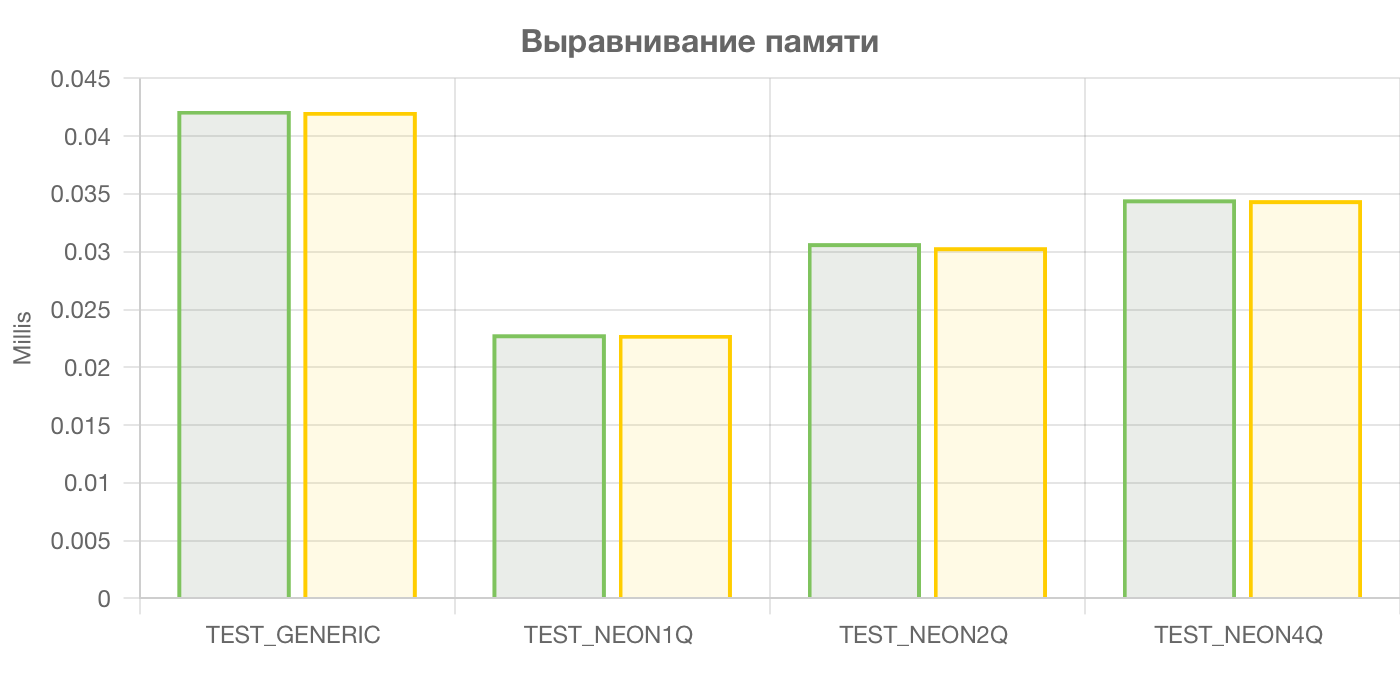
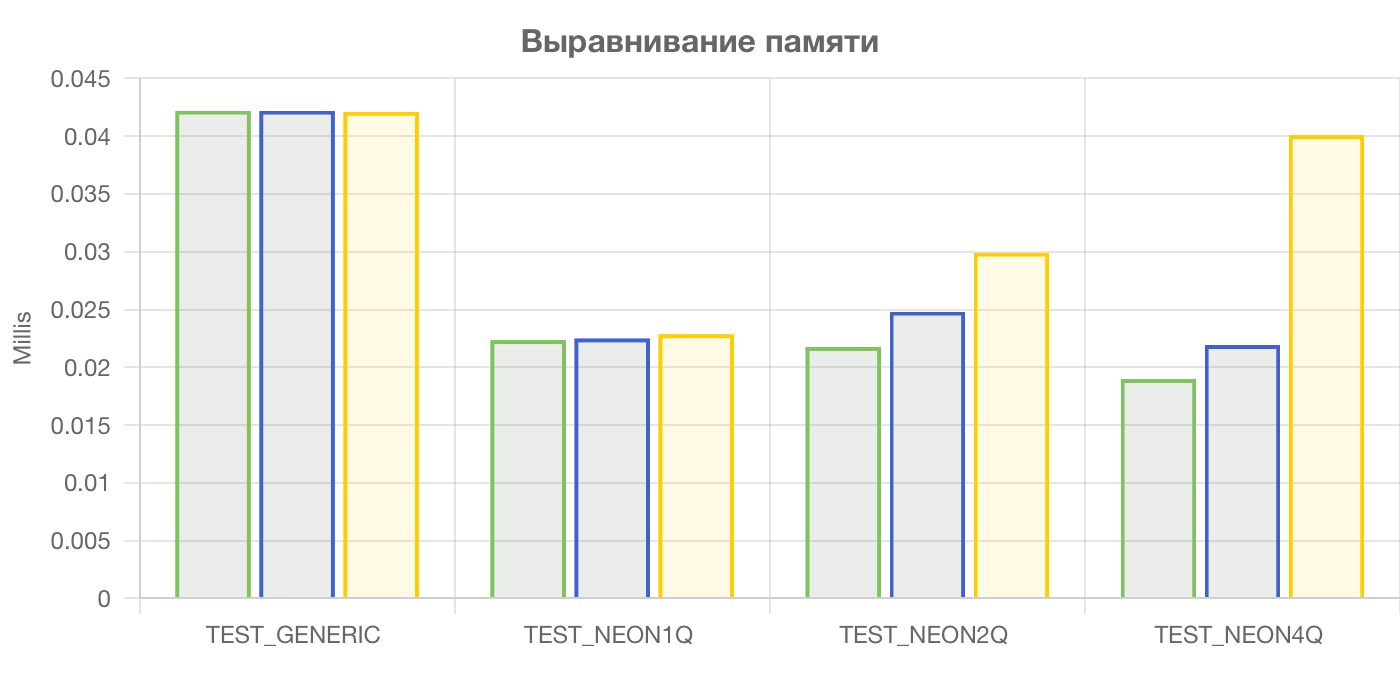
update blog post with new info

diff --git a/posts/fir-filter-optimization-simd/index.html b/posts/fir-filter-optimization-simd/index.html
@@ -553,7 +553,11 @@ const typesCompareChart = new Chart(typesCompareCtx, {
 <span style="color:#75715e">#else
 </span><span style="color:#75715e"></span>  output <span style="color:#f92672">=</span> malloc(<span style="color:#66d9ef">sizeof</span>(<span style="color:#66d9ef">float</span>) <span style="color:#f92672">*</span> output_len);
 <span style="color:#75715e">#endif
-</span></code></pre></div>
+</span></code></pre></div><p>Помимо, собственно, создания выравненного массива данных, при обработке нужно указать процессору, что данные выровнены. Делается это с помощью функции <code>__builtin_assume_aligned</code>:</p>
+<div class="highlight"><pre style="color:#f8f8f2;background-color:#272822;-moz-tab-size:4;-o-tab-size:4;tab-size:4"><code class="language-c" data-lang="c"><span style="color:#66d9ef">const</span> <span style="color:#66d9ef">float</span> <span style="color:#f92672">*</span>aPtr <span style="color:#f92672">=</span> (<span style="color:#66d9ef">float</span> <span style="color:#f92672">*</span>) __builtin_assume_aligned(input, MEMORY_ALIGNMENT);
+<span style="color:#66d9ef">const</span> <span style="color:#66d9ef">float</span> <span style="color:#f92672">*</span>bPtr <span style="color:#f92672">=</span> (<span style="color:#66d9ef">float</span> <span style="color:#f92672">*</span>) __builtin_assume_aligned(taps, MEMORY_ALIGNMENT);
+</code></pre></div><p>Если что-то не будет выровнено, то не беда - процессор это сообщит и программа упадёт с ошибкой <code>Bus error</code>.</p>
+
 
 
 
@@ -584,11 +588,13 @@ const typesCompareChart = new Chart(typesCompareCtx, {
 </small>
 </div>
 <script>
-var typesMemoryData = [{"rpi_dot_prod_am_nas_npref_optimized_64":0.042213,"rpi_dot_prod_nam_nas_npref_optimized_64":0.042113,"type":"TEST_GENERIC"},{"rpi_dot_prod_am_nas_npref_optimized_64":0.022856,"rpi_dot_prod_nam_nas_npref_optimized_64":0.02282,"type":"TEST_NEON1Q"},{"rpi_dot_prod_am_nas_npref_optimized_64":0.030744,"rpi_dot_prod_nam_nas_npref_optimized_64":0.030391,"type":"TEST_NEON2Q"},{"rpi_dot_prod_am_nas_npref_optimized_64":0.034534,"rpi_dot_prod_nam_nas_npref_optimized_64":0.034464,"type":"TEST_NEON4Q"}];
+var typesMemoryData = [{"rpi_dot_prod_am16_nas_npref_optimized_64":0.042213,"rpi_dot_prod_am8_nas_npref_optimized_64":0.042213,"rpi_dot_prod_nam_nas_npref_optimized_64":0.042113,"type":"TEST_GENERIC"},{"rpi_dot_prod_am16_nas_npref_optimized_64":0.022499,"rpi_dot_prod_am8_nas_npref_optimized_64":0.022355,"rpi_dot_prod_nam_nas_npref_optimized_64":0.022867,"type":"TEST_NEON1Q"},{"rpi_dot_prod_am16_nas_npref_optimized_64":0.024824,"rpi_dot_prod_am8_nas_npref_optimized_64":0.021756,"rpi_dot_prod_nam_nas_npref_optimized_64":0.029926,"type":"TEST_NEON2Q"},{"rpi_dot_prod_am16_nas_npref_optimized_64":0.021928,"rpi_dot_prod_am8_nas_npref_optimized_64":0.018982,"rpi_dot_prod_nam_nas_npref_optimized_64":0.040092,"type":"TEST_NEON4Q"}];
 var typesMemorydatasource = typesMemoryData.map(function(e) {
 	return e.rpi_dot_prod_nam_nas_npref_optimized_64;
 });var typesMemorydatasource2 = typesMemoryData.map(function(e) {
-	return e.rpi_dot_prod_am_nas_npref_optimized_64;
+	return e.rpi_dot_prod_am8_nas_npref_optimized_64;
+});var typesMemorydatasource3 = typesMemoryData.map(function(e) {
+	return e.rpi_dot_prod_am16_nas_npref_optimized_64;
 });var typesMemoryXAxis = typesMemoryData.map(function(e) {
 	return '' + e.type;
 });var typesMemoryCtx = document.getElementById('typesMemory').getContext('2d');
@@ -597,11 +603,20 @@ const typesMemoryChart = new Chart(typesMemoryCtx, {
     data: {
         labels: typesMemoryXAxis,
         datasets: [{
-        	label: 'Aligned',
+        	label: 'Aligned 8byte',
             data: typesMemorydatasource2,
             borderColor: '#7fc35e',
             backgroundColor: 'rgba(49, 76, 37, 0.1)',
             pointBackgroundColor: '#7fc35e',
+            fill: true,
+            borderWidth: 2,
+            tension: 0.2
+        },{
+        	label: 'Aligned 16byte',
+            data: typesMemorydatasource3,
+            borderColor: '#4161CC',
+            backgroundColor: 'rgba(49, 76, 37, 0.1)',
+            pointBackgroundColor: '#4161CC',
             fill: true,
             borderWidth: 2,
             tension: 0.2
@@ -691,18 +706,18 @@ const typesMemoryChart = new Chart(typesMemoryCtx, {
 </script><noscript>
 	<img src="/img/fir-filter-optimization-simd/typesMemory.png">
 </noscript>
-<p>Похоже, выравнивание памяти не влияет на производительность. Либо память изначально выделялась уже выровненной.</p>
+<p>Похоже, выравнивание влияет на производительность только при одномоментной загрузке больших объёмов данных из памяти.</p>
 <p>Ещё одним важным фактором может быть длина массивов. Допустим, я загружаю из памяти в регистры по 16 float и параллельно считаю свёртку. Но если длина массива не кратна 16-ти, то остаток можно считать загрузкой 8 или 4 float, либо реализовать на Си. В общем же случае входящий массив может быть не кратен ни 16, ни 8, ни 4, тогда придётся по-любому обсчитывать остаток с помощью кода на Си. А что, если расширить исходные массивы до длины кратной 16, 8 или 4? Процессор будет перемножать нули, складывать с нулями и на результат это не повлияет. При этом остаток будет выполняться такими же быстрыми SIMD инструкциями и код в общем случае будет значительно проще. Выглядеть это может вот так:</p>
 <div class="highlight"><pre style="color:#f8f8f2;background-color:#272822;-moz-tab-size:4;-o-tab-size:4;tab-size:4"><code class="language-C" data-lang="C"><span style="color:#75715e">#if defined(TEST_NEON2Q) &amp;&amp; defined(TEST_ALIGN_SIZE)
-</span><span style="color:#75715e"></span>  <span style="color:#66d9ef">if</span>( input_length <span style="color:#f92672">%</span> <span style="color:#ae81ff">8</span> <span style="color:#f92672">!=</span> <span style="color:#ae81ff">0</span> ) {
-    final_input_length <span style="color:#f92672">=</span> ((input_length <span style="color:#f92672">/</span> <span style="color:#ae81ff">8</span>) <span style="color:#f92672">+</span> <span style="color:#ae81ff">1</span>) <span style="color:#f92672">*</span> <span style="color:#ae81ff">8</span>;
-  }
-  <span style="color:#66d9ef">if</span>( taps_length <span style="color:#f92672">%</span> <span style="color:#ae81ff">8</span> <span style="color:#f92672">!=</span> <span style="color:#ae81ff">0</span> ) {
-    final_taps_length <span style="color:#f92672">=</span> ((taps_length <span style="color:#f92672">/</span> <span style="color:#ae81ff">8</span>) <span style="color:#f92672">+</span> <span style="color:#ae81ff">1</span>) <span style="color:#f92672">*</span> <span style="color:#ae81ff">8</span>;
-    final_taps <span style="color:#f92672">=</span> malloc(<span style="color:#66d9ef">sizeof</span>(<span style="color:#66d9ef">float</span>) <span style="color:#f92672">*</span> final_taps_length);
-    memset(final_taps, <span style="color:#ae81ff">0</span>, <span style="color:#66d9ef">sizeof</span>(<span style="color:#66d9ef">float</span>) <span style="color:#f92672">*</span> final_taps_length);
-    memcpy(final_taps, taps, <span style="color:#66d9ef">sizeof</span>(<span style="color:#66d9ef">float</span>) <span style="color:#f92672">*</span> taps_length);
-  }
+</span><span style="color:#75715e"></span><span style="color:#66d9ef">if</span>( input_length <span style="color:#f92672">%</span> <span style="color:#ae81ff">8</span> <span style="color:#f92672">!=</span> <span style="color:#ae81ff">0</span> ) {
+  final_input_length <span style="color:#f92672">=</span> ((input_length <span style="color:#f92672">/</span> <span style="color:#ae81ff">8</span>) <span style="color:#f92672">+</span> <span style="color:#ae81ff">1</span>) <span style="color:#f92672">*</span> <span style="color:#ae81ff">8</span>;
+}
+<span style="color:#66d9ef">if</span>( taps_length <span style="color:#f92672">%</span> <span style="color:#ae81ff">8</span> <span style="color:#f92672">!=</span> <span style="color:#ae81ff">0</span> ) {
+  final_taps_length <span style="color:#f92672">=</span> ((taps_length <span style="color:#f92672">/</span> <span style="color:#ae81ff">8</span>) <span style="color:#f92672">+</span> <span style="color:#ae81ff">1</span>) <span style="color:#f92672">*</span> <span style="color:#ae81ff">8</span>;
+  final_taps <span style="color:#f92672">=</span> malloc(<span style="color:#66d9ef">sizeof</span>(<span style="color:#66d9ef">float</span>) <span style="color:#f92672">*</span> final_taps_length);
+  memset(final_taps, <span style="color:#ae81ff">0</span>, <span style="color:#66d9ef">sizeof</span>(<span style="color:#66d9ef">float</span>) <span style="color:#f92672">*</span> final_taps_length);
+  memcpy(final_taps, taps, <span style="color:#66d9ef">sizeof</span>(<span style="color:#66d9ef">float</span>) <span style="color:#f92672">*</span> taps_length);
+}
 </code></pre></div><p>Может не очень элегантно, но выполняется один раз и работает как часы.</p>
 
 

diff --git a/tags/поворотное-устройство/index.html b/tags/поворотное-устройство/index.html
@@ -2,11 +2,11 @@
 <html lang='ru' dir='auto'><head>
   <meta charset='utf-8'>
 <meta name='viewport' content='width=device-width, initial-scale=1'>
-<meta name='description' content='Блог о программировании на Java'>
+<meta name='description' content='Создание, настройка и работа с различными поворотными устройствами. Например, skywatcher allview'>
 <meta name='theme-color' content='#ffcd00'>
 
 <meta property='og:title' content='tag: поворотное устройство • dernasherbrezon'>
-<meta property='og:description' content='Блог о программировании на Java'>
+<meta property='og:description' content='Создание, настройка и работа с различными поворотными устройствами. Например, skywatcher allview'>
 <meta property='og:url' content='https://dernasherbrezon.com/tags/%D0%BF%D0%BE%D0%B2%D0%BE%D1%80%D0%BE%D1%82%D0%BD%D0%BE%D0%B5-%D1%83%D1%81%D1%82%D1%80%D0%BE%D0%B9%D1%81%D1%82%D0%B2%D0%BE/'>
 <meta property='og:site_name' content='dernasherbrezon'>
 <meta property='og:type' content='website'><meta property='og:updated_time' content='2023-07-15T17:39:18&#43;01:00'/><meta name='twitter:card' content='summary'><meta name='twitter:site' content='@dernasherbrezon'>
@@ -333,6 +333,8 @@
       <h1 class='title'><span class='taxonomy-name'>tag: </span>поворотное устройство</h1>
 
       
+<p class='desc'>Создание, настройка и работа с различными поворотными устройствами. Например, skywatcher allview</p>
+
 
     </div>
   </div>
@@ -343,70 +345,6 @@
 
 <div class='container list-container'>
   <ul class='list'>
-    
-      <li class='item'>
-  <div class='meta'>
-    <span>
-  <span class='screen-reader-text'> </span>
-  <time datetime='2022-05-21T21:54:18&#43;01:00'>21 May 2022</time>
-</span>
-
-  </div>
-  <header class='item-header'>
-    <h3 class='item-title'>
-      <a href='/posts/systemd-udev/'>Привязка systemd сервиса к устройству</a>
-    </h3>
-  </header>
-</li>
-
-    
-      <li class='item'>
-  <div class='meta'>
-    <span>
-  <span class='screen-reader-text'> </span>
-  <time datetime='2020-07-07T21:39:18&#43;01:00'>07 Jul 2020</time>
-</span>
-
-  </div>
-  <header class='item-header'>
-    <h3 class='item-title'>
-      <a href='/posts/rotator-for-r2cloud-3/'>Полевые испытания поворотного устройства</a>
-    </h3>
-  </header>
-</li>
-
-    
-      <li class='item'>
-  <div class='meta'>
-    <span>
-  <span class='screen-reader-text'> </span>
-  <time datetime='2020-06-16T20:04:18&#43;01:00'>16 Jun 2020</time>
-</span>
-
-  </div>
-  <header class='item-header'>
-    <h3 class='item-title'>
-      <a href='/posts/rotator-for-r2cloud-2/'>Поворотное устройство - продолжение</a>
-    </h3>
-  </header>
-</li>
-
-    
-      <li class='item'>
-  <div class='meta'>
-    <span>
-  <span class='screen-reader-text'> </span>
-  <time datetime='2020-06-10T18:41:18&#43;01:00'>10 Jun 2020</time>
-</span>
-
-  </div>
-  <header class='item-header'>
-    <h3 class='item-title'>
-      <a href='/posts/rotator-for-r2cloud/'>Поворотное устройство для r2cloud</a>
-    </h3>
-  </header>
-</li>
-
     
   </ul>
 

diff --git a/tags/abbreviated-jpeg/index.html b/tags/abbreviated-jpeg/index.html
@@ -2,11 +2,11 @@
 <html lang='ru' dir='auto'><head>
   <meta charset='utf-8'>
 <meta name='viewport' content='width=device-width, initial-scale=1'>
-<meta name='description' content='Описание работы с достаточно редко встречающимся видом jpeg файлов - abbreviated jpeg'>
+<meta name='description' content='Блог о программировании на Java'>
 <meta name='theme-color' content='#ffcd00'>
 
 <meta property='og:title' content='tag: abbreviated jpeg • dernasherbrezon'>
-<meta property='og:description' content='Описание работы с достаточно редко встречающимся видом jpeg файлов - abbreviated jpeg'>
+<meta property='og:description' content='Блог о программировании на Java'>
 <meta property='og:url' content='https://dernasherbrezon.com/tags/abbreviated-jpeg/'>
 <meta property='og:site_name' content='dernasherbrezon'>
 <meta property='og:type' content='website'><meta property='og:updated_time' content='2023-07-15T17:39:18&#43;01:00'/><meta name='twitter:card' content='summary'><meta name='twitter:site' content='@dernasherbrezon'>
@@ -333,8 +333,6 @@
       <h1 class='title'><span class='taxonomy-name'>tag: </span>abbreviated jpeg</h1>
 
       
-<p class='desc'>Описание работы с достаточно редко встречающимся видом jpeg файлов - abbreviated jpeg</p>
-
 
     </div>
   </div>
@@ -345,6 +343,38 @@
 
 <div class='container list-container'>
   <ul class='list'>
+    
+      <li class='item'>
+  <div class='meta'>
+    <span>
+  <span class='screen-reader-text'> </span>
+  <time datetime='2020-01-23T00:20:17&#43;01:00'>23 Jan 2020</time>
+</span>
+
+  </div>
+  <header class='item-header'>
+    <h3 class='item-title'>
+      <a href='/posts/decoding-jy1sat/'>Декодирование картинки jy1sat</a>
+    </h3>
+  </header>
+</li>
+
+    
+      <li class='item'>
+  <div class='meta'>
+    <span>
+  <span class='screen-reader-text'> </span>
+  <time datetime='2020-01-09T21:11:18&#43;01:00'>09 Jan 2020</time>
+</span>
+
+  </div>
+  <header class='item-header'>
+    <h3 class='item-title'>
+      <a href='/posts/abbreviated-jpeg-java/'>Abbreviated jpeg в Java</a>
+    </h3>
+  </header>
+</li>
+
     
   </ul>
 

diff --git a/hugo/content/posts/fir-filter-optimization-simd.md b/hugo/content/posts/fir-filter-optimization-simd.md
@@ -82,24 +82,33 @@ endforeach()
 #endif
 ```
 
-{{< barchartjs url="/static/img/fir-filter-optimization-simd/align_memory.json" id="typesMemory" title="Выравнивание памяти" datasource="rpi_dot_prod_nam_nas_npref_optimized_64" datasourceLabel="Not aligned" datasource2="rpi_dot_prod_am_nas_npref_optimized_64" datasource2Label="Aligned" xAxis="type" yAxisLabel="Millis" yAxisUnit=""  staticSrc="/img/fir-filter-optimization-simd/typesMemory.png">}}
+Помимо, собственно, создания выравненного массива данных, при обработке нужно указать процессору, что данные выровнены. Делается это с помощью функции ```__builtin_assume_aligned```:
 
-Похоже, выравнивание памяти не влияет на производительность. Либо память изначально выделялась уже выровненной.
+```c
+const float *aPtr = (float *) __builtin_assume_aligned(input, MEMORY_ALIGNMENT);
+const float *bPtr = (float *) __builtin_assume_aligned(taps, MEMORY_ALIGNMENT);
+```
+
+Если что-то не будет выровнено, то не беда - процессор это сообщит и программа упадёт с ошибкой ```Bus error```.
+
+{{< barchartjs url="/static/img/fir-filter-optimization-simd/align_memory.json" id="typesMemory" title="Выравнивание памяти" datasource="rpi_dot_prod_nam_nas_npref_optimized_64" datasourceLabel="Not aligned" datasource2="rpi_dot_prod_am8_nas_npref_optimized_64" datasource2Label="Aligned 8byte" datasource3="rpi_dot_prod_am16_nas_npref_optimized_64" datasource3Label="Aligned 16byte" xAxis="type" yAxisLabel="Millis" yAxisUnit=""  staticSrc="/img/fir-filter-optimization-simd/typesMemory.png">}}
+
+Похоже, выравнивание влияет на производительность только при одномоментной загрузке больших объёмов данных из памяти.
 
 Ещё одним важным фактором может быть длина массивов. Допустим, я загружаю из памяти в регистры по 16 float и параллельно считаю свёртку. Но если длина массива не кратна 16-ти, то остаток можно считать загрузкой 8 или 4 float, либо реализовать на Си. В общем же случае входящий массив может быть не кратен ни 16, ни 8, ни 4, тогда придётся по-любому обсчитывать остаток с помощью кода на Си. А что, если расширить исходные массивы до длины кратной 16, 8 или 4? Процессор будет перемножать нули, складывать с нулями и на результат это не повлияет. При этом остаток будет выполняться такими же быстрыми SIMD инструкциями и код в общем случае будет значительно проще. Выглядеть это может вот так:
 
 
 ```C
 #if defined(TEST_NEON2Q) && defined(TEST_ALIGN_SIZE)
-  if( input_length % 8 != 0 ) {
-    final_input_length = ((input_length / 8) + 1) * 8;
-  }
-  if( taps_length % 8 != 0 ) {
-    final_taps_length = ((taps_length / 8) + 1) * 8;
-    final_taps = malloc(sizeof(float) * final_taps_length);
-    memset(final_taps, 0, sizeof(float) * final_taps_length);
-    memcpy(final_taps, taps, sizeof(float) * taps_length);
-  }
+if( input_length % 8 != 0 ) {
+  final_input_length = ((input_length / 8) + 1) * 8;
+}
+if( taps_length % 8 != 0 ) {
+  final_taps_length = ((taps_length / 8) + 1) * 8;
+  final_taps = malloc(sizeof(float) * final_taps_length);
+  memset(final_taps, 0, sizeof(float) * final_taps_length);
+  memcpy(final_taps, taps, sizeof(float) * taps_length);
+}
 ```
 
 Может не очень элегантно, но выполняется один раз и работает как часы.
